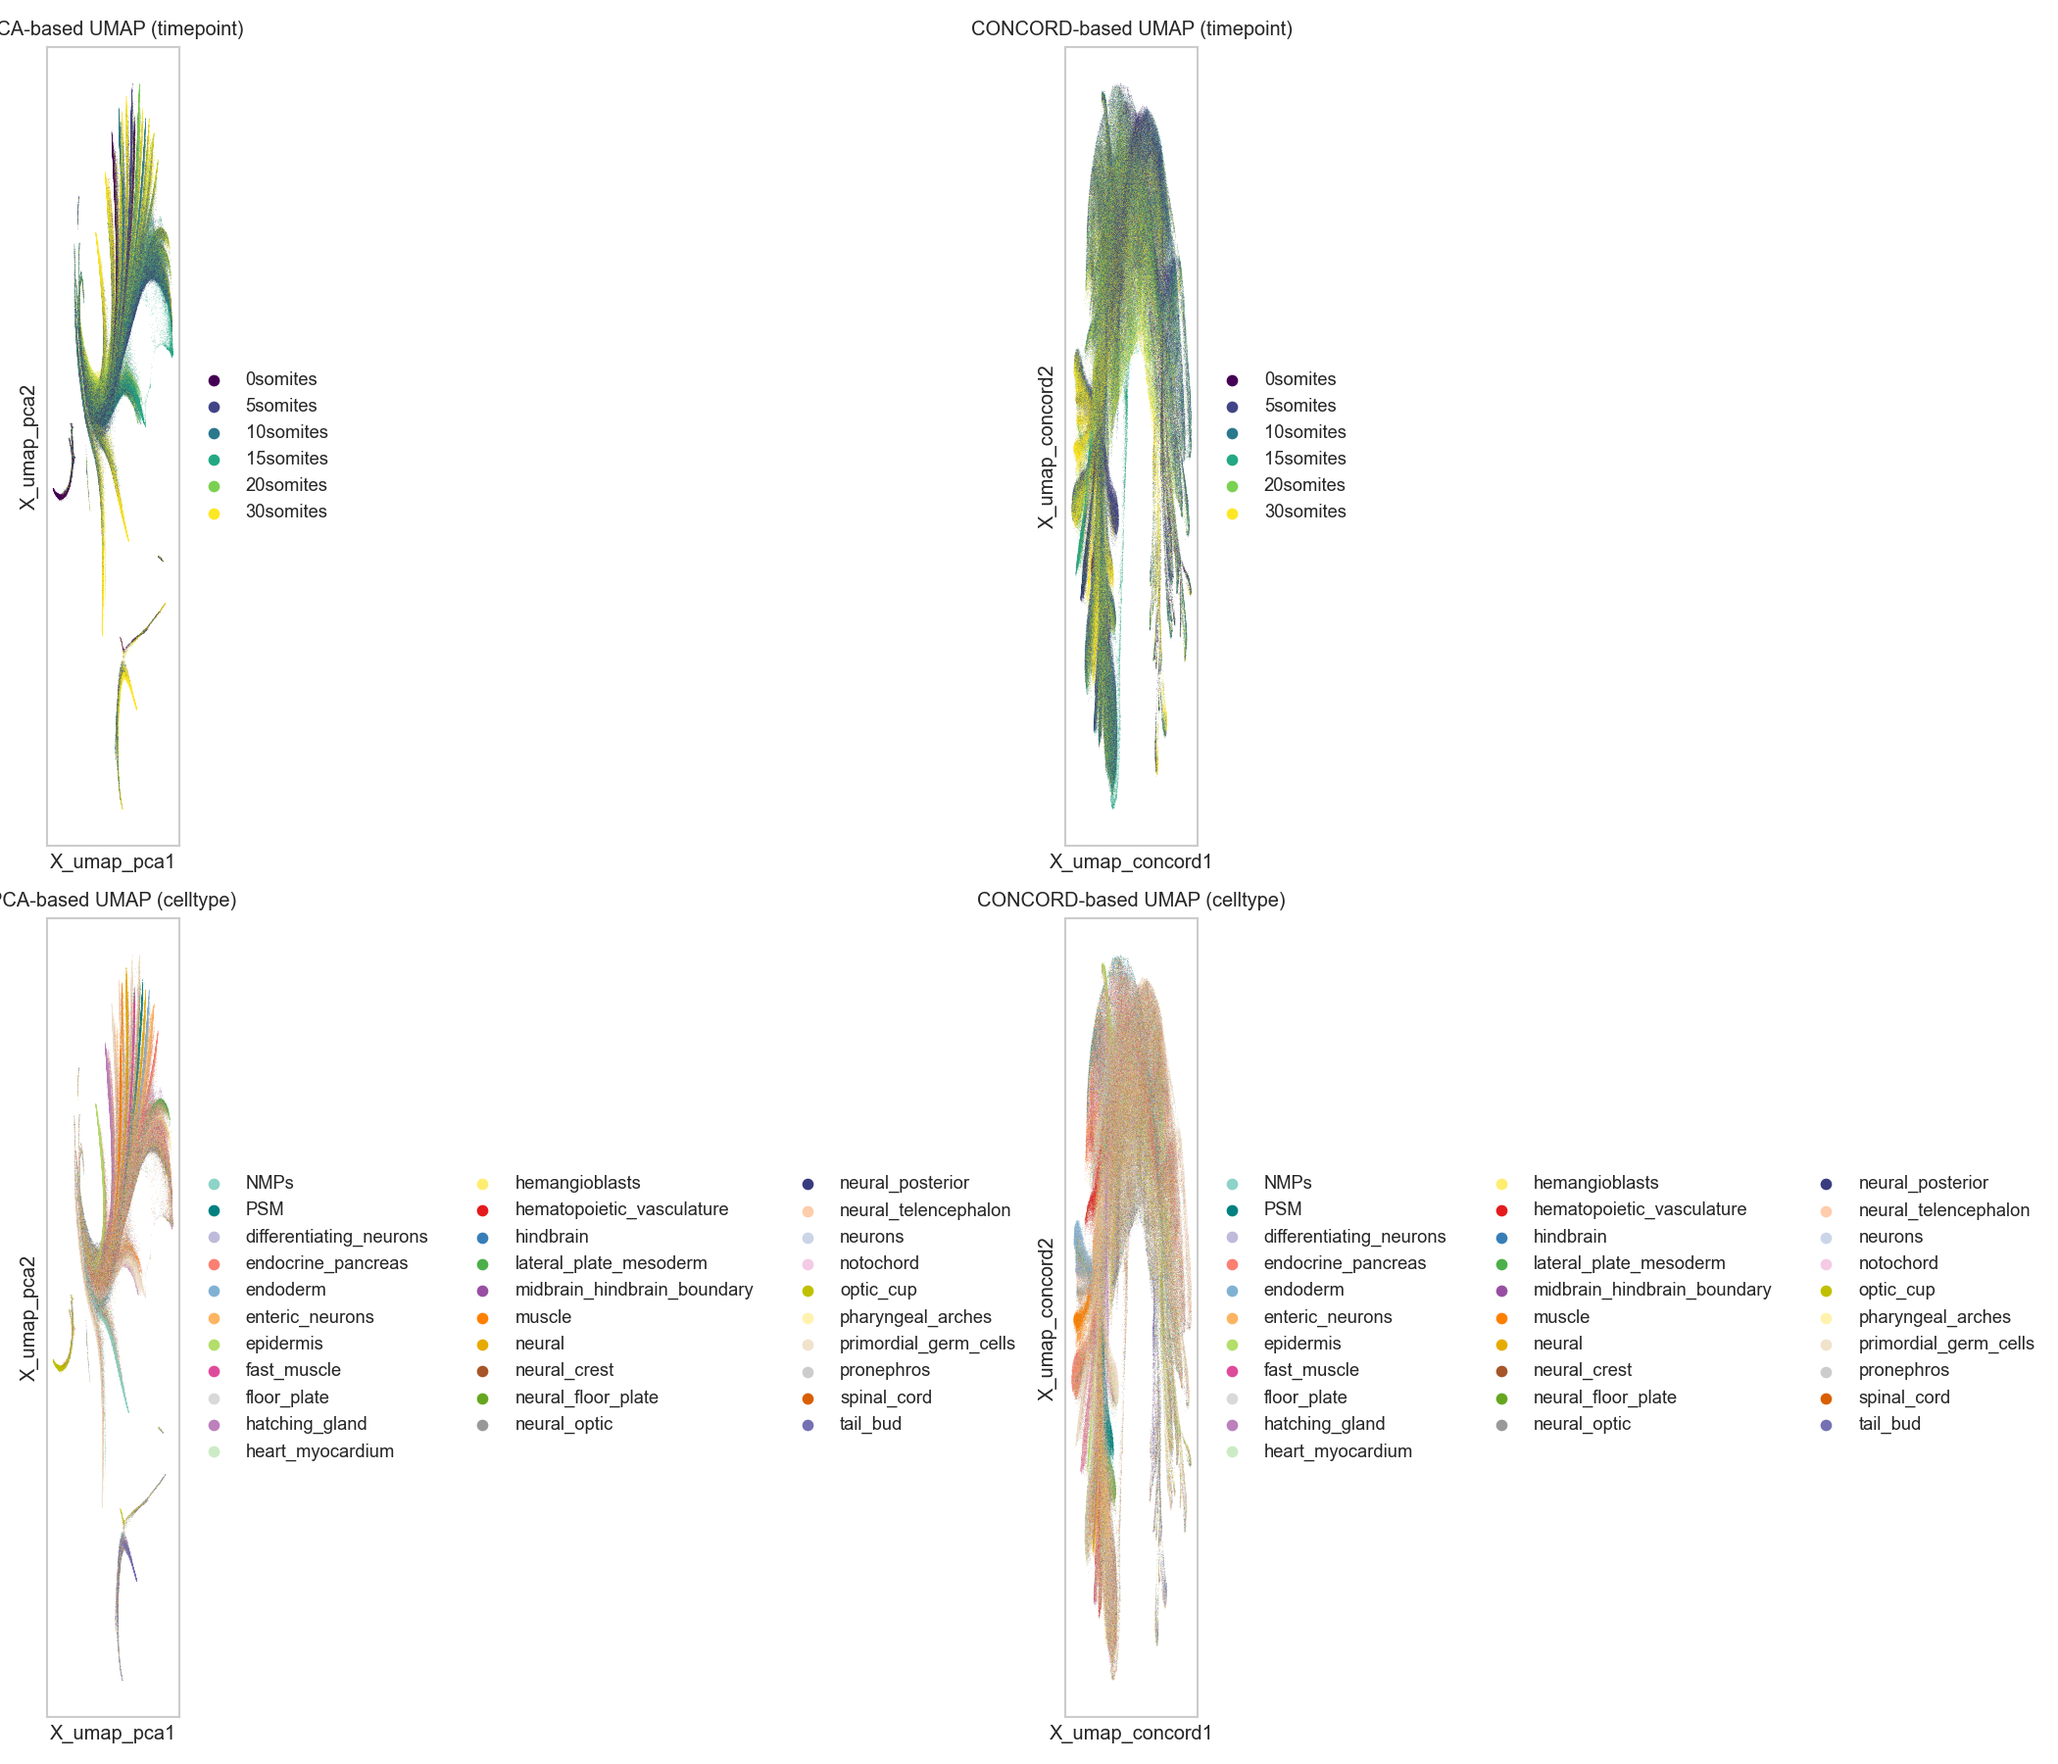
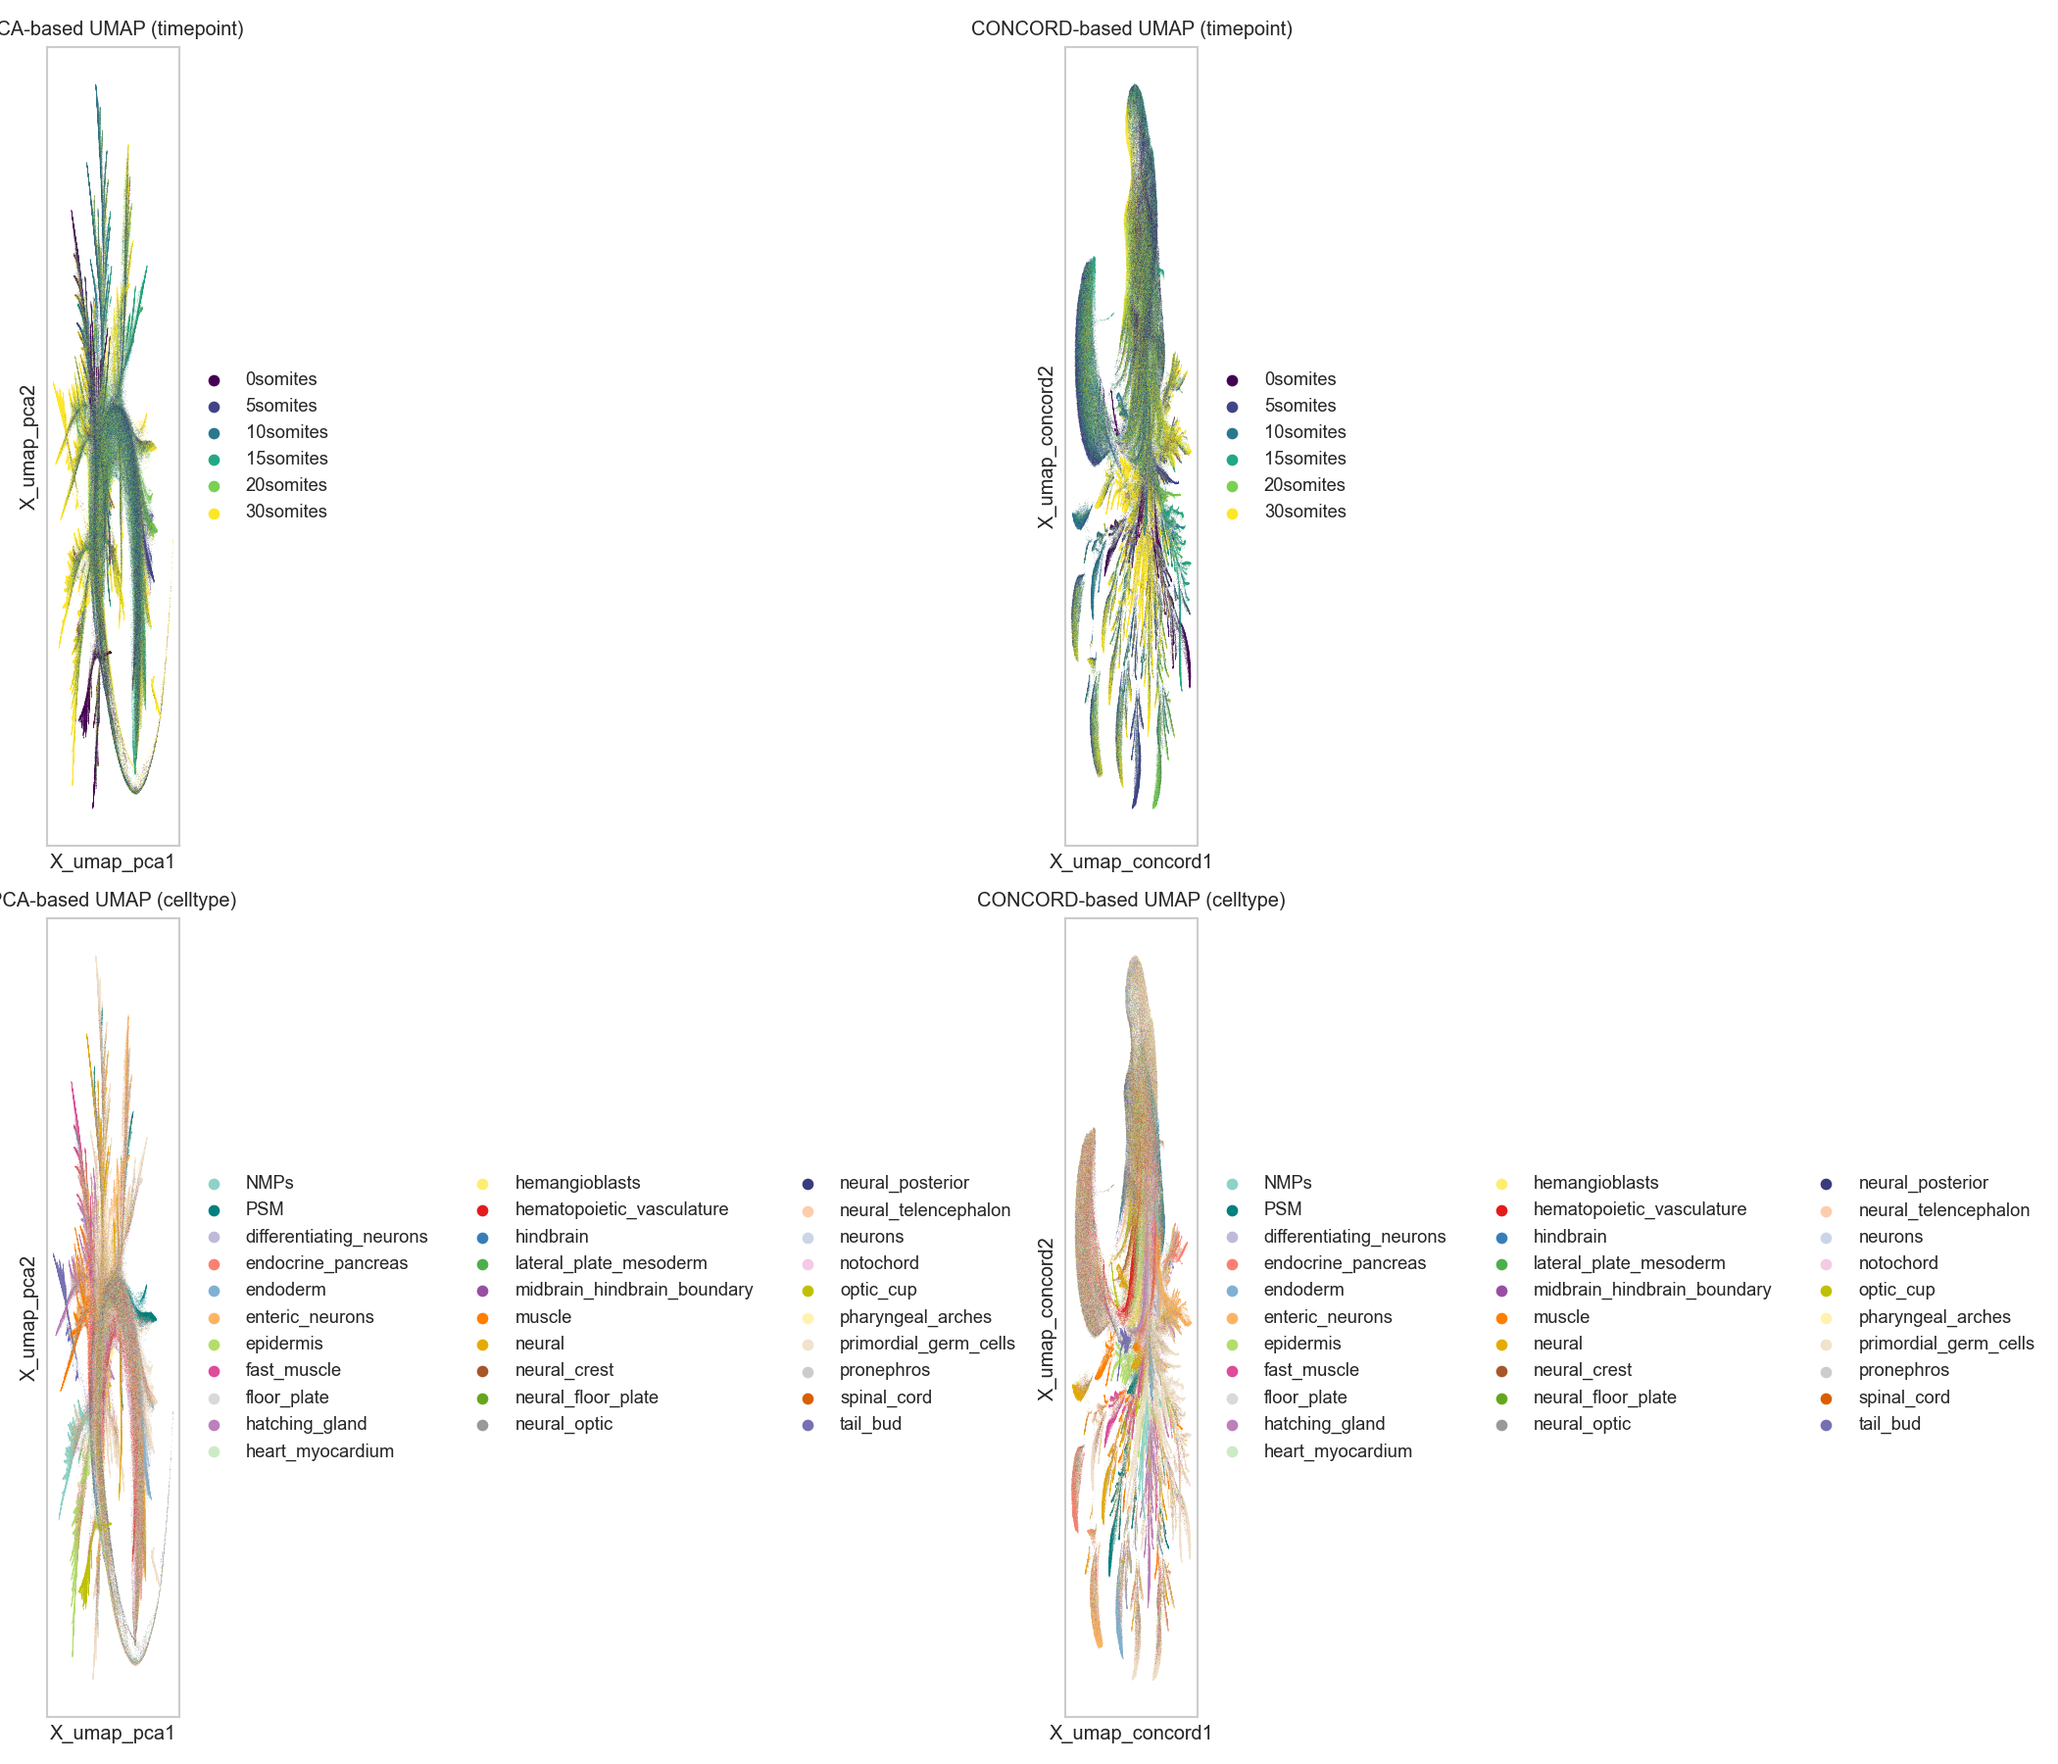
fix: use normalized layer instead of log_norm for CONCORD peak UMAP
Use median-scaled normalized counts without log transformation,
as intended for the peak UMAP analysis.

diff --git a/scripts/run_concord_peak_umap.py b/scripts/run_concord_peak_umap.py
@@ -54,8 +54,8 @@ print(peaks_pb)
 print("\n[2/5] Computing PCA-based UMAP...")
 peaks_pca = peaks_pb.copy()
 
-# Use log-normalized counts
-peaks_pca.X = peaks_pca.layers["log_norm"].copy()
+# Use median-scaled normalized counts (no log transformation)
+peaks_pca.X = peaks_pca.layers["normalized"].copy()
 rsc.get.anndata_to_GPU(peaks_pca)
 
 # Standard PCA workflow
@@ -75,8 +75,8 @@ print("PCA UMAP complete.")
 print("\n[3/5] Computing CONCORD-based UMAP...")
 peaks_concord = peaks_pb.copy()
 
-# Use log-normalized counts
-peaks_concord.X = peaks_concord.layers["log_norm"].copy()
+# Use median-scaled normalized counts (no log transformation)
+peaks_concord.X = peaks_concord.layers["normalized"].copy()
 
 # Scale the data (same preprocessing as PCA)
 sc.pp.scale(peaks_concord)

diff --git a/notebooks/Fig_peak_umap/peaks_pb_concord_umap.py b/notebooks/Fig_peak_umap/peaks_pb_concord_umap.py
@@ -68,7 +68,7 @@ peaks_pb
 peaks_pca = peaks_pb.copy()
 
 # Use log-normalized counts
-peaks_pca.X = peaks_pca.layers["log_norm"].copy()
+peaks_pca.X = peaks_pca.layers["normalized"].copy()
 rsc.get.anndata_to_GPU(peaks_pca)
 
 # Standard PCA workflow
@@ -94,7 +94,7 @@ sc.pl.embedding(peaks_pb, basis="X_umap_pca", color="timepoint", title="PCA-base
 peaks_concord = peaks_pb.copy()
 
 # Use log-normalized counts
-peaks_concord.X = peaks_concord.layers["log_norm"].copy()
+peaks_concord.X = peaks_concord.layers["normalized"].copy()
 
 # Scale the data (same preprocessing as PCA)
 sc.pp.scale(peaks_concord)
